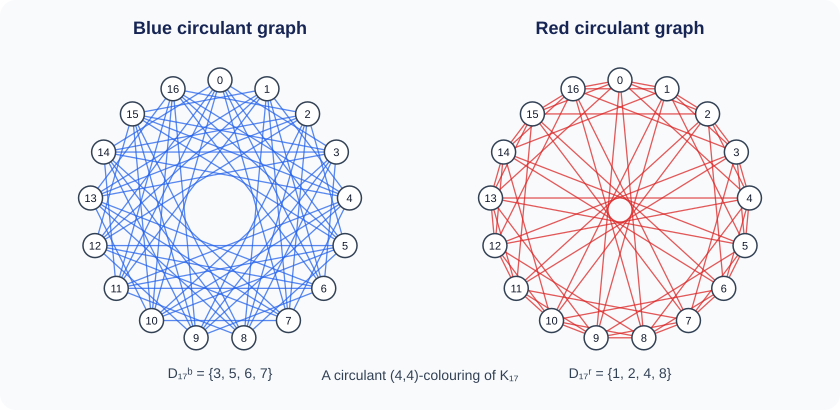
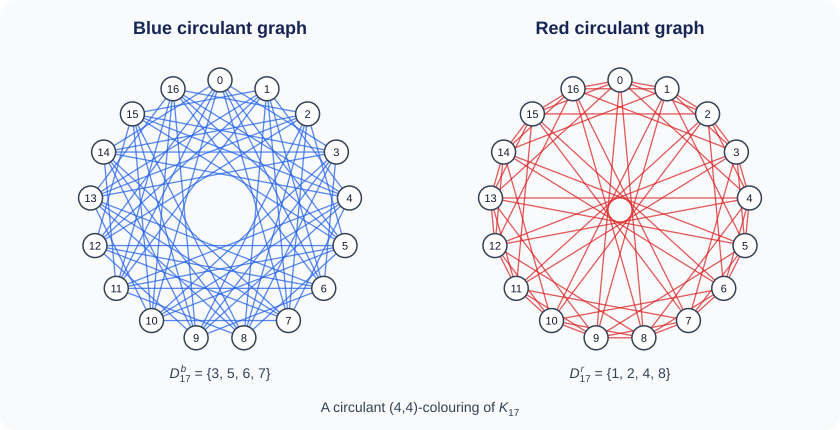
Typeset subscripts and superscripts properly in the figure and site
The K17 figure now stacks the colour superscript above the order
subscript (D^b_17, D^r_17) instead of writing Unicode characters in a
row, and the main caption gets its own line. On the website, subscripts
share one compact style that keeps line spacing, the summation limits
sit under the sum, and the results legend no longer splits K from its
subscript.

diff --git a/docs/method.html b/docs/method.html
@@ -8,7 +8,7 @@
   <meta name="theme-color" content="#faf8f4">
   <link rel="canonical" href="https://fabiofurini.github.io/ramsey-number-lower-bounds/method.html">
   <link rel="icon" href="assets/favicon.svg?v=51d15f5133a3" type="image/svg+xml">
-  <link rel="stylesheet" href="assets/style.css?v=c4fa56d252c6">
+  <link rel="stylesheet" href="assets/style.css?v=20192470d2bb">
   <script src="assets/navigation.js?v=977c4f24ffc4" defer></script>
   <script src="assets/analytics.js?v=fcc4a4c3eb43" defer></script>
 </head>
@@ -35,7 +35,7 @@
 
         <section id="symmetry"><p class="eyebrow">02 / A smaller description</p><h2>Colour distances, not individual edges.</h2><p>Place the vertices at 0, 1, …, t−1 around a circle. In a circulant colouring, the colour of an edge depends only on its circular distance:</p><div class="equation">δ(i,j) = min(|i−j|, t−|i−j|).</div><p>All edges with the same circular distance receive the same colour. Rotating the vertices preserves the colouring. The whole graph can therefore be described by ⌊t/2⌋ binary decisions instead of t(t−1)/2.</p><div class="method-example"><span class="field-label">The R(3,37) construction</span><div class="method-example-metrics"><div><strong>271</strong><span>vertices</span></div><div><strong>36,585</strong><span>edges to colour</span></div><div><strong>135</strong><span>binary distance variables</span></div></div><p>This reduction describes a restricted search space. It does not assert that every unrestricted Ramsey colouring has a circulant representative.</p></div><p>The distance grid on the <a href="results.html">results page</a> is exactly this representation: one cell per distance. The <a href="index.html#explore">interactive examples</a> change an entire distance class at a time.</p></section>
 
-        <section id="formulation"><p class="eyebrow">03 / Integer programming</p><h2>Describe the forbidden structures.</h2><p>Write y<sub>d</sub> = 1 when distance d is blue and y<sub>d</sub> = 0 when it is red. For a vertex set S, let D(S) be the set of distinct circular distances occurring among its pairs of vertices.</p><p>If S has m vertices, preventing it from becoming a blue clique requires at least one of its distances to be red. If T has n vertices, preventing it from becoming a red clique requires at least one of its distances to be blue:</p><div class="equation equation-stack"><div>∑<sub>d ∈ D(S)</sub> y<sub>d</sub> ≤ |D(S)| − 1 <small>for |S| = m</small></div><div>∑<sub>d ∈ D(T)</sub> y<sub>d</sub> ≥ 1 <small>for |T| = n</small></div></div><p>These elementary inequalities explain the distance formulation. There are far too many candidate vertex sets to list every constraint in advance, so the algorithm generates violated constraints as they are needed.</p><p>The paper strengthens the formulation through coefficient reduction and inequalities exploiting clique structure. Distinct vertex sets can also produce the same distance pattern, which makes it useful to work directly with sets of distances. The full derivations and computational comparisons belong to the paper; the displayed equations introduce the basic mechanism.</p></section>
+        <section id="formulation"><p class="eyebrow">03 / Integer programming</p><h2>Describe the forbidden structures.</h2><p>Write y<sub>d</sub> = 1 when distance d is blue and y<sub>d</sub> = 0 when it is red. For a vertex set S, let D(S) be the set of distinct circular distances occurring among its pairs of vertices.</p><p>If S has m vertices, preventing it from becoming a blue clique requires at least one of its distances to be red. If T has n vertices, preventing it from becoming a red clique requires at least one of its distances to be blue:</p><div class="equation equation-stack"><div><span class="bigop">∑<span class="limits">d ∈ D(S)</span></span> y<sub>d</sub> ≤ |D(S)| − 1 <small>for |S| = m</small></div><div><span class="bigop">∑<span class="limits">d ∈ D(T)</span></span> y<sub>d</sub> ≥ 1 <small>for |T| = n</small></div></div><p>These elementary inequalities explain the distance formulation. There are far too many candidate vertex sets to list every constraint in advance, so the algorithm generates violated constraints as they are needed.</p><p>The paper strengthens the formulation through coefficient reduction and inequalities exploiting clique structure. Distinct vertex sets can also produce the same distance pattern, which makes it useful to work directly with sets of distances. The full derivations and computational comparisons belong to the paper; the displayed equations introduce the basic mechanism.</p></section>
 
         <section id="separation"><p class="eyebrow">04 / The search loop</p><h2>Find a forbidden clique. Add a cut. Continue.</h2><p>The branch-and-cut solver searches over the distance variables. For an integral candidate colouring, the separation routine builds its blue and red graphs and asks two target questions: is there a blue clique of size m, or a red clique of size n?</p><ol class="method-flow"><li><strong>Propose a candidate.</strong><span>The integer programming solver produces a candidate assignment of colours to distances.</span></li><li><strong>Search for a violation.</strong><span>Cheap bounds and greedy routines run first, followed by MNTS where enabled. An exact clique search resolves the questions that remain.</span></li><li><strong>Exclude the pattern.</strong><span>A forbidden clique gives a valid inequality. Adding it rules out the offending distance pattern and guides the next search.</span></li><li><strong>Keep a verified colouring.</strong><span>If both forbidden clique sizes are excluded, the integral colouring provides a constructive lower-bound witness.</span></li></ol><p>Separation needs a target decision, not necessarily the maximum clique. Finding a valid target clique is enough to generate a cut. If the target is not found by a heuristic, an exact procedure is still needed to prove absence.</p><p>A timeout leaves the corresponding exact question unresolved. It must never be interpreted as evidence that the candidate avoids the forbidden clique.</p></section>
 

diff --git a/docs/results.html b/docs/results.html
@@ -8,7 +8,7 @@
   <meta name="theme-color" content="#faf8f4">
   <link rel="canonical" href="https://fabiofurini.github.io/ramsey-number-lower-bounds/results.html">
   <link rel="icon" href="assets/favicon.svg?v=51d15f5133a3" type="image/svg+xml">
-  <link rel="stylesheet" href="assets/style.css?v=c4fa56d252c6">
+  <link rel="stylesheet" href="assets/style.css?v=20192470d2bb">
   <script src="assets/data.js?v=24d897f34906" defer></script>
   <script src="assets/results.js?v=59fcee6f402d" defer></script>
   <script src="assets/navigation.js?v=977c4f24ffc4" defer></script>
@@ -36,7 +36,7 @@
       <div class="section-head"><div><p class="eyebrow">The constructions</p><h2 id="results-title">Every bound has<br>a graph behind it.</h2></div><p>The paper improves lower bounds for 25 numbers R(3,n). Each construction comes with a certificate: an explicit graph that can be checked independently.</p></div>
       <div class="result-feature" id="result-explorer" hidden>
         <div class="result-story"><label class="field-label" for="result-select">Explore a result from the paper</label><select id="result-select"></select><p class="result-formula" id="result-formula"></p><p id="result-explanation"></p><div class="result-metrics"><div><strong id="result-order"></strong><span>vertices</span></div><div><strong id="result-edges"></strong><span>edges in total</span></div><div><strong id="result-distances"></strong><span>distance classes</span></div></div><a id="certificate-link" class="button primary" download>Download certificate <span aria-hidden="true">↓</span></a><p class="small muted">DIMACS format · The file describes the red graph; the blue graph is its complement.</p></div>
-        <div class="distance-panel"><div class="panel-top"><p class="field-label">The colouring’s fingerprint</p><span id="distance-total" class="mono"></span></div><div id="result-grid" class="result-grid" aria-label="Distance class colours of the certificate"></div><p id="distance-info" class="distance-info" aria-live="polite">Each cell is a circular distance. Select one to inspect its role.</p><div class="grid-legend"><span><i class="swatch red"></i> Red: avoids K<sub id="red-target">37</sub></span><span><i class="swatch blue"></i> Blue: avoids K<sub>3</sub></span></div></div>
+        <div class="distance-panel"><div class="panel-top"><p class="field-label">The colouring’s fingerprint</p><span id="distance-total" class="mono"></span></div><div id="result-grid" class="result-grid" aria-label="Distance class colours of the certificate"></div><p id="distance-info" class="distance-info" aria-live="polite">Each cell is a circular distance. Select one to inspect its role.</p><div class="grid-legend"><span><i class="swatch red"></i> <span>Red: avoids K<sub id="red-target">37</sub></span></span><span><i class="swatch blue"></i> <span>Blue: avoids K<sub>3</sub></span></span></div></div>
       </div>
       <noscript><p class="page-context">All 25 results and their certificate downloads are available below. Enable JavaScript to inspect distance colours interactively.</p></noscript>
       <div class="table-header" id="paper-results"><h3>The paper’s 25 lower bounds</h3><a href="certificates/results.csv" download class="text-link">Download results as CSV <span aria-hidden="true">↓</span></a></div>

diff --git a/docs/assets/style.css b/docs/assets/style.css
@@ -84,6 +84,8 @@
 .equation{padding:25px 24px;background:#eeeee5;text-align:center;font-family:var(--serif);font-size:26px;line-height:1.7;margin:28px 0;border-radius:5px;color:var(--ink)}
 .equation>span{color:var(--red)}.equation-stack>div+div{margin-top:20px}
 .equation small{display:block;font-size:15px;color:var(--muted)}
+sub{font-size:.72em;line-height:0;position:relative;vertical-align:baseline;bottom:-.28em}
+.bigop{position:relative;display:inline-block;font-size:1.25em;line-height:1;margin:0 .15em .9em 0}.bigop .limits{position:absolute;top:100%;left:50%;transform:translateX(-50%);font-size:.45em;line-height:1.2;white-space:nowrap}
 .method-example{padding:25px 28px;background:var(--paper);border:1px solid var(--line);border-radius:5px;margin:26px 0}
 .method-example>div{display:flex;flex-wrap:wrap;align-items:baseline;gap:12px;margin-bottom:15px}
 .method-example strong{font-family:var(--serif);font-size:32px;font-weight:400;color:var(--red)}

diff --git a/docs/distance-colourings.html b/docs/distance-colourings.html
@@ -12,7 +12,7 @@
   <meta property="og:type" content="website">
   <meta property="og:url" content="https://fabiofurini.github.io/ramsey-number-lower-bounds/distance-colourings.html">
   <link rel="icon" href="assets/favicon.svg?v=51d15f5133a3" type="image/svg+xml">
-  <link rel="stylesheet" href="assets/style.css?v=c4fa56d252c6">
+  <link rel="stylesheet" href="assets/style.css?v=20192470d2bb">
   <script src="assets/data.js?v=24d897f34906" defer></script>
   <script src="assets/graph.js?v=9fd55021a262" defer></script>
   <script src="assets/app.js?v=15abc0ce1f4e" defer></script>

diff --git a/docs/gallery.html b/docs/gallery.html
@@ -8,7 +8,7 @@
   <meta name="theme-color" content="#faf8f4">
   <link rel="canonical" href="https://fabiofurini.github.io/ramsey-number-lower-bounds/gallery.html">
   <link rel="icon" href="assets/favicon.svg?v=51d15f5133a3" type="image/svg+xml">
-  <link rel="stylesheet" href="assets/style.css?v=c4fa56d252c6">
+  <link rel="stylesheet" href="assets/style.css?v=20192470d2bb">
   <script src="assets/gallery.js?v=32b749cd382b" defer></script>
   <script src="assets/navigation.js?v=977c4f24ffc4" defer></script>
   <script src="assets/analytics.js?v=fcc4a4c3eb43" defer></script>

diff --git a/docs/witness.html b/docs/witness.html
@@ -8,7 +8,7 @@
   <meta name="theme-color" content="#faf8f4">
   <link rel="canonical" href="https://fabiofurini.github.io/ramsey-number-lower-bounds/witness.html">
   <link rel="icon" href="assets/favicon.svg?v=51d15f5133a3" type="image/svg+xml">
-  <link rel="stylesheet" href="assets/style.css?v=c4fa56d252c6">
+  <link rel="stylesheet" href="assets/style.css?v=20192470d2bb">
   <script src="assets/data.js?v=24d897f34906" defer></script>
   <script src="assets/witness-data.js?v=6a4ed0960648" defer></script>
   <script src="assets/graph.js?v=9fd55021a262" defer></script>

diff --git a/docs/index.html b/docs/index.html
@@ -12,7 +12,7 @@
   <meta property="og:type" content="website">
   <meta property="og:url" content="https://fabiofurini.github.io/ramsey-number-lower-bounds/">
   <link rel="icon" href="assets/favicon.svg?v=51d15f5133a3" type="image/svg+xml">
-  <link rel="stylesheet" href="assets/style.css?v=c4fa56d252c6">
+  <link rel="stylesheet" href="assets/style.css?v=20192470d2bb">
   <script src="assets/data.js?v=24d897f34906" defer></script>
   <script src="assets/graph.js?v=9fd55021a262" defer></script>
   <script src="assets/app.js?v=15abc0ce1f4e" defer></script>

diff --git a/docs/known-numbers.html b/docs/known-numbers.html
@@ -8,7 +8,7 @@
   <meta name="theme-color" content="#faf8f4">
   <link rel="canonical" href="https://fabiofurini.github.io/ramsey-number-lower-bounds/known-numbers.html">
   <link rel="icon" href="assets/favicon.svg?v=51d15f5133a3" type="image/svg+xml">
-  <link rel="stylesheet" href="assets/style.css?v=c4fa56d252c6">
+  <link rel="stylesheet" href="assets/style.css?v=20192470d2bb">
   <script src="assets/navigation.js?v=977c4f24ffc4" defer></script>
   <script src="assets/analytics.js?v=fcc4a4c3eb43" defer></script>
 </head>

diff --git a/assets/render_circulant_colouring.py b/assets/render_circulant_colouring.py
@@ -56,14 +56,30 @@ def graph_group(
     for index, (x, y) in enumerate(coordinates):
         parts.append(f'<circle cx="{x:.2f}" cy="{y:.2f}" r="12" class="node"/><text x="{x:.2f}" y="{y + 4:.2f}" text-anchor="middle" class="label">{index}</text>')
     distance_text = ", ".join(str(value) for value in distances(matrix, colour))
-    parts.append(f'<text x="{centre_x}" y="{centre_y + radius + 38}" text-anchor="middle" class="caption">{distance_label} = {{{distance_text}}}</text>')
+    parts.append(f'<text x="{centre_x}" y="{centre_y + radius + 38}" text-anchor="middle" class="caption">{distance_label}<tspan dy="-4">&#160;= {{{distance_text}}}</tspan></text>')
     return "\n".join(parts)
 
 
+# Arial advance widths at the 10px script size (0.556em for b, 0.333em for r).
+SCRIPT_WIDTHS = {"b": 5.56, "r": 3.33}
+
+
+def stacked_scripts(base: str, superscript: str, subscript: str) -> str:
+    """Base symbol with a superscript stacked above a subscript, as in LaTeX D^b_{17}.
+
+    The superscript is written first; the subscript is then moved back under it, so the
+    text that follows resumes after the wider subscript. The baseline ends 4px low: the
+    caller's next tspan restores it with dy="-4".
+    """
+    return (f'<tspan font-style="italic">{base}</tspan>'
+            f'<tspan class="script" font-style="italic" dx="1" dy="-6">{superscript}</tspan>'
+            f'<tspan class="script" dx="-{SCRIPT_WIDTHS[superscript] + 1:.2f}" dy="10">{subscript}</tspan>')
+
+
 def render(matrix: list[list[int]]) -> str:
-    blue = graph_group(matrix, 0, 220, 210, "Blue circulant graph", "D₁₇ᵇ", "#2563eb")
-    red = graph_group(matrix, 1, 620, 210, "Red circulant graph", "D₁₇ʳ", "#dc2626")
-    return f'''<svg xmlns="http://www.w3.org/2000/svg" width="840" height="410" viewBox="0 0 840 410" role="img" aria-labelledby="title description">
+    blue = graph_group(matrix, 0, 220, 210, "Blue circulant graph", stacked_scripts("D", "b", "17"), "#2563eb")
+    red = graph_group(matrix, 1, 620, 210, "Red circulant graph", stacked_scripts("D", "r", "17"), "#dc2626")
+    return f'''<svg xmlns="http://www.w3.org/2000/svg" width="840" height="430" viewBox="0 0 840 430" role="img" aria-labelledby="title description">
 <title id="title">A circulant 4,4-colouring of K17</title>
 <desc id="description">Two complementary circulant graphs on 17 vertices. Their distance sets are D_17^b = {{3, 5, 6, 7}} and D_17^r = {{1, 2, 4, 8}}.</desc>
 <style>
@@ -71,10 +87,11 @@ def render(matrix: list[list[int]]) -> str:
   .caption {{ font: 14px Arial, sans-serif; fill: #334155; }}
   .node {{ fill: white; stroke: #334155; stroke-width: 1.5; }}
   .label {{ font: 11px Arial, sans-serif; fill: #0f172a; }}
+  .script {{ font-size: 10px; }}
   line {{ stroke-width: 1.3; stroke-opacity: .76; }}
 </style>
 <rect width="100%" height="100%" rx="16" fill="#f8fafc"/>
-<text x="420" y="380" text-anchor="middle" class="caption">A circulant (4,4)-colouring of K₁₇</text>
+<text x="420" y="412" text-anchor="middle" class="caption">A circulant (4,4)-colouring of <tspan font-style="italic">K</tspan><tspan class="script" dy="4">17</tspan></text>
 {blue}
 {red}
 </svg>
